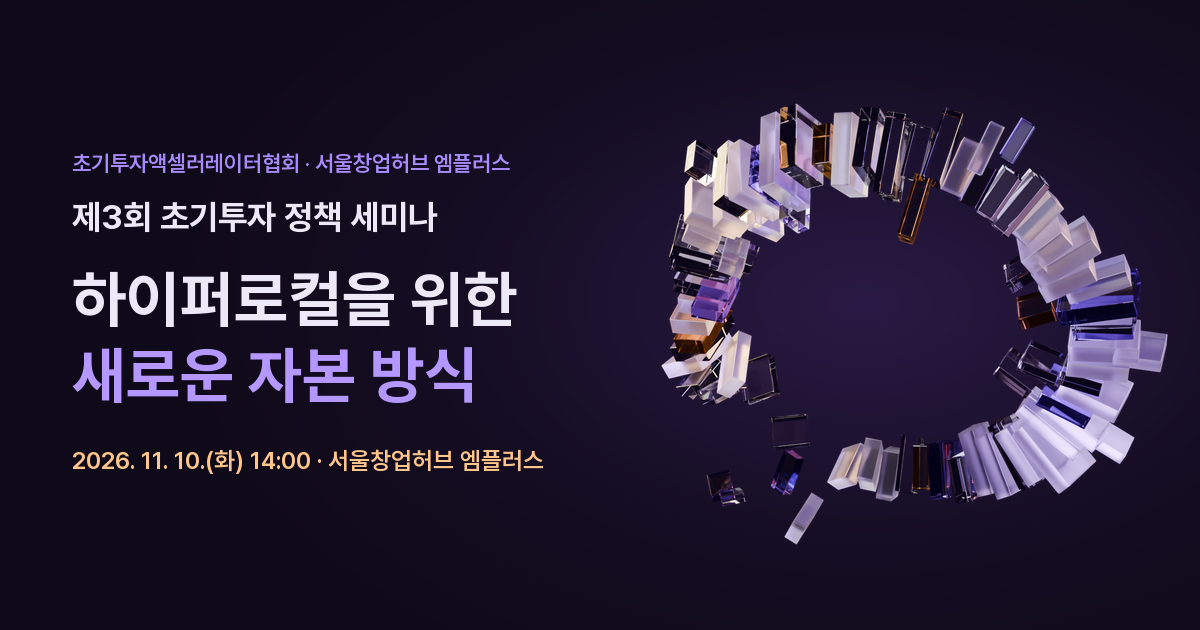
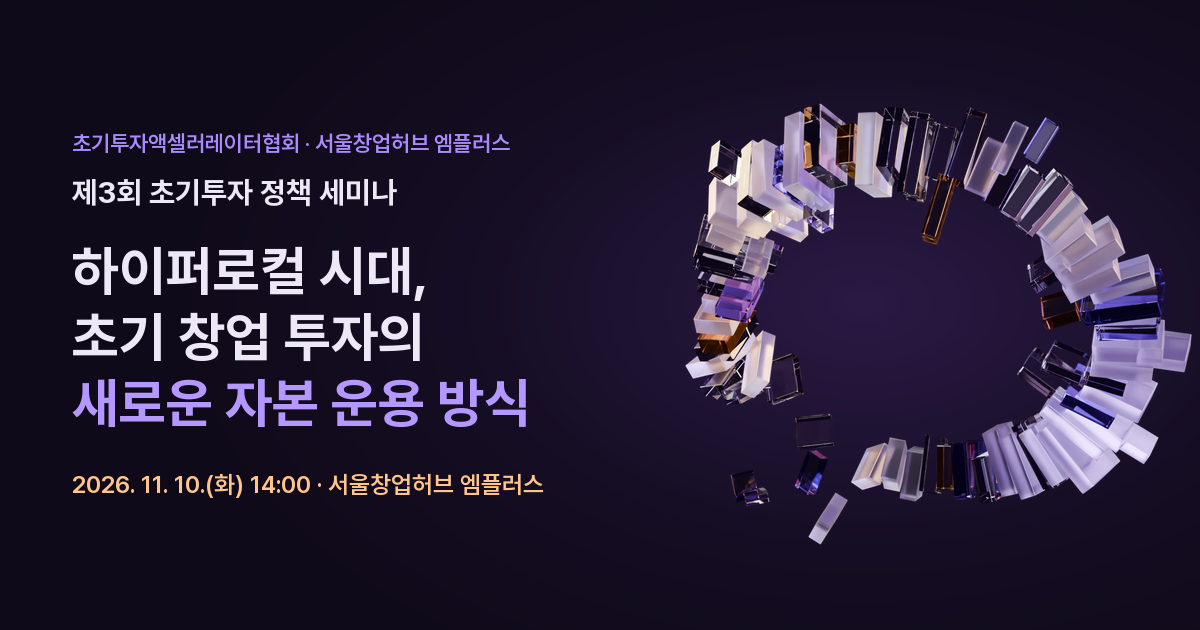
update: 제3회 제목 변경 (하이퍼로컬 시대, 초기 창업 투자의 새로운 자본 운용 방식)
- hero 제목 3줄 구성(하이퍼로컬 시대, / 초기 창업 투자의 / 새로운 자본 운용 방식 강조), 글자 크기 clamp(2rem, 3.4vw, 3rem)·keep-all
- meta description·og:title, 시리즈 3차 카드, README 시리즈 표 제목 변경
- og-image-3.png 새 제목으로 다시 생성

Changed region(s): [[0.555, 0.1508, 1.0, 0.8746], [0.0617, 0.3921, 0.4625, 0.7841], [0.0617, 0.2111, 0.4317, 0.3619]]

diff --git a/index.html b/index.html
@@ -4,8 +4,8 @@
   <meta charset="UTF-8" />
   <meta name="viewport" content="width=device-width, initial-scale=1.0" />
   <title>제3회 초기투자 정책 세미나 | 초기투자액셀러레이터협회</title>
-  <meta name="description" content="초기투자액셀러레이터협회와 서울창업허브 엠플러스가 공동 주관하는 제3회 초기투자 정책 세미나. '하이퍼로컬을 위한 새로운 자본 방식'. 2026년 11월 10일(화) 서울창업허브 엠플러스." />
-  <meta property="og:title" content="제3회 초기투자 정책 세미나 | 하이퍼로컬을 위한 새로운 자본 방식" />
+  <meta name="description" content="초기투자액셀러레이터협회와 서울창업허브 엠플러스가 공동 주관하는 제3회 초기투자 정책 세미나. '하이퍼로컬 시대, 초기 창업 투자의 새로운 자본 운용 방식'. 2026년 11월 10일(화) 서울창업허브 엠플러스." />
+  <meta property="og:title" content="제3회 초기투자 정책 세미나 | 하이퍼로컬 시대, 초기 창업 투자의 새로운 자본 운용 방식" />
   <meta property="og:description" content="프로젝트 투자 · 매출 연계 투자 · 지역 출자, 로컬 기업에 맞는 투자 수단과 재원을 논의하는 세미나 (2026.11.10)" />
   <meta property="og:image" content="https://k-aia-association.github.io/2026_policy_seminar/images/og-image-3.png" />
   <meta property="og:image:width" content="1200" />
@@ -573,9 +573,10 @@
         </p>
 
         <!-- Title -->
-        <h1 class="section-title text-white mb-4" style="font-size: clamp(2rem, 5.5vw, 3.5rem);">
-          하이퍼로컬을 위한<br />
-          <span class="gradient-text">새로운 자본 방식</span>
+        <h1 class="section-title text-white mb-4" style="font-size: clamp(2rem, 3.4vw, 3rem); word-break: keep-all;">
+          하이퍼로컬 시대,<br />
+          초기 창업 투자의<br />
+          <span class="gradient-text">새로운 자본 운용 방식</span>
         </h1>
 
         <!-- Topic -->
@@ -1166,7 +1167,7 @@
             <span class="badge badge-active">3차 · 11월</span>
             <span class="text-xs font-semibold uppercase tracking-wider" style="color:var(--teal);">현재 회차</span>
           </div>
-          <h3 class="text-base font-bold text-white leading-snug mb-3">하이퍼로컬을 위한 새로운 자본 방식 · 로컬 기업에 맞는 투자 수단과 재원</h3>
+          <h3 class="text-base font-bold text-white leading-snug mb-3">하이퍼로컬 시대, 초기 창업 투자의 새로운 자본 운용 방식 · 로컬 기업에 맞는 투자 수단과 재원</h3>
           <p class="text-sm" style="color:var(--text-muted);">발제 5건 + 패널 토론 &amp; Q&amp;A</p>
           <div class="mt-5">
             <a class="cta-btn-outline text-xs px-4 py-2.5 js-register" data-open-label="신청하기" aria-disabled="true"><span class="js-register-label">신청 오픈 예정</span></a>

diff --git a/README.md b/README.md
@@ -12,7 +12,7 @@
 |:---:|:---:|:---|
 | 1차 | 4월 30일 | 로컬 창업과 초기투자 — AC/VC의 새로운 기회와 정책적 과제 ([아카이브](session1/)) |
 | 2차 | 7월 27일 | 액셀러레이터의 생존방식 — 지속가능한 비즈니스 모델을 찾아서 ([아카이브](session2/)) |
-| 3차 | 11월 10일 | 하이퍼로컬을 위한 새로운 자본 방식 (현재 회차, 메인 페이지) |
+| 3차 | 11월 10일 | 하이퍼로컬 시대, 초기 창업 투자의 새로운 자본 운용 방식 (현재 회차, 메인 페이지) |
 
 ## 웹사이트
 
